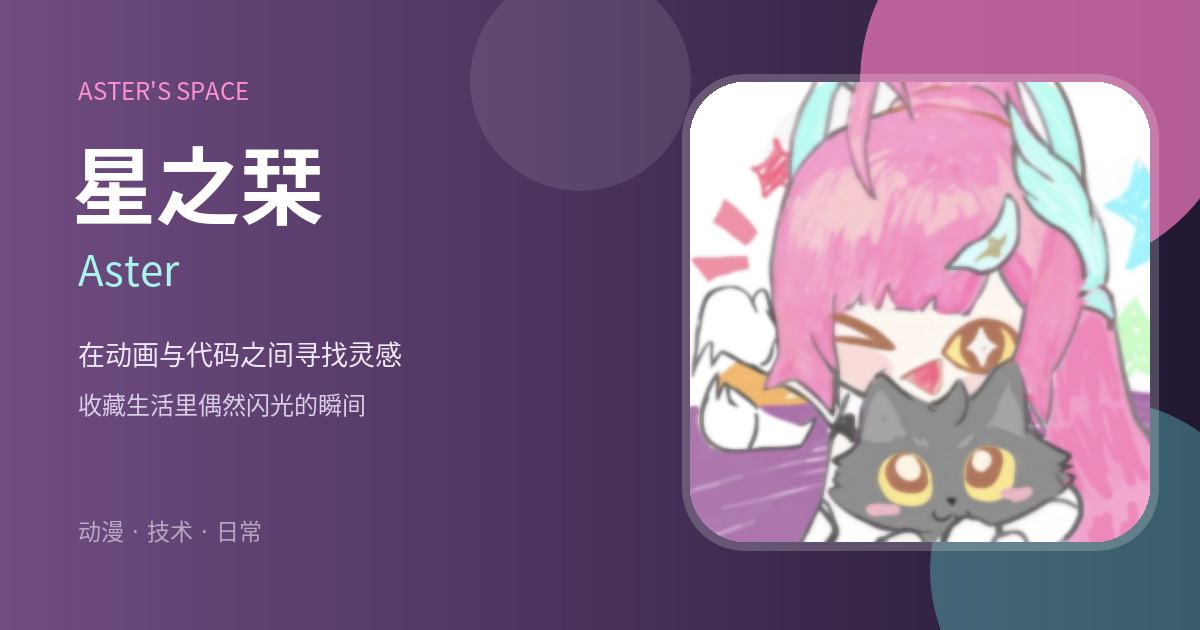
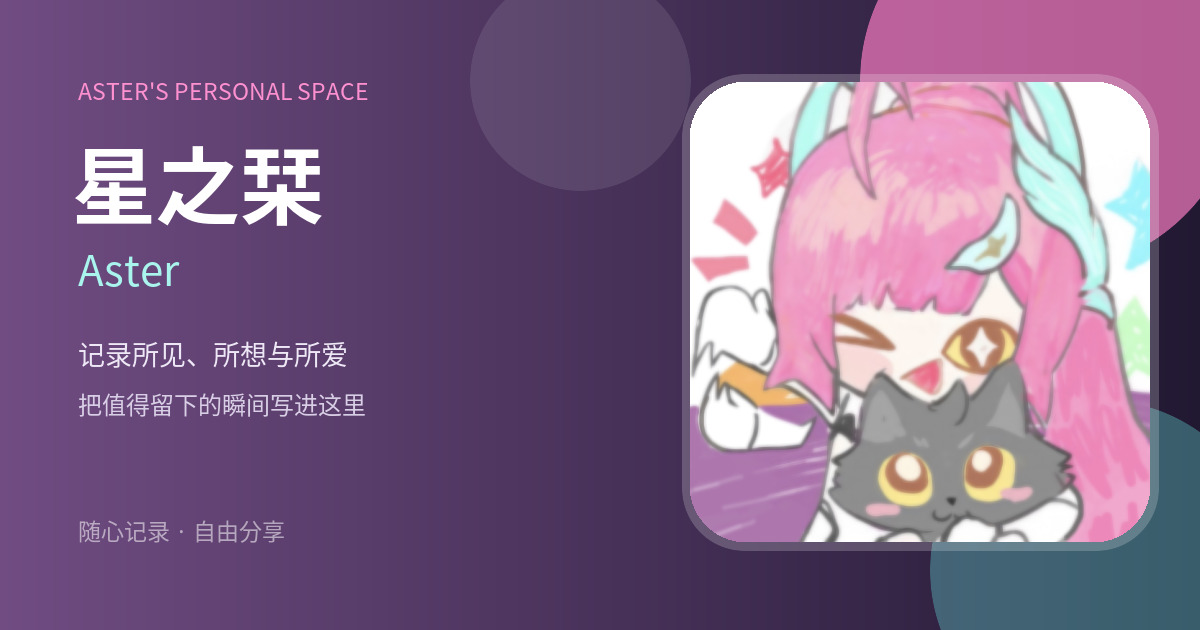
content: broaden site positioning and copy

Changed region(s): [[0.0617, 0.5429, 0.3392, 0.6635], [0.0617, 0.1206, 0.3083, 0.181], [0.0617, 0.8143, 0.2467, 0.8746]]

diff --git a/src/config/siteConfig.ts b/src/config/siteConfig.ts
@@ -9,17 +9,17 @@ export const siteConfig: SiteConfig = {
 	title: "星之栞",
 
 	// 站点副标题
-	subtitle: "动漫、技术与日常",
+	subtitle: "随心记录，自由分享",
 
 	// 站点 URL
 	site_url: "https://cheney0819.github.io/hoshi-no-shiori",
 
 	// 站点描述
 	description:
-		"星之栞是一个记录动画感想、技术探索与生活碎片的年轻化二次元个人博客。",
+		"星之栞是 Aster 的个人空间，用来记录想法、兴趣、经历，以及任何值得留下的瞬间。",
 
 	// 站点关键词
-	keywords: ["星之栞", "动漫", "二次元", "Astro", "个人博客", "技术", "生活"],
+	keywords: ["星之栞", "Aster", "个人博客", "随笔", "记录", "分享", "兴趣", "生活"],
 
 	// 主题色
 	themeColor: {

diff --git a/src/config/backgroundWallpaper.ts b/src/config/backgroundWallpaper.ts
@@ -67,9 +67,9 @@ export const backgroundWallpaper: BackgroundWallpaperConfig = {
 			titleSize: "5rem",
 			// 主页横幅副标题
 			subtitle: [
-				"在动画、代码与日常之间，收藏每一个闪光的瞬间。",
-				"愿每一次记录，都成为未来回望时闪亮的星光。",
-				"今日もいい日になりますように。",
+				"记录所见、所想与所爱。",
+				"想到什么，就在这里写下什么。",
+				"愿每一次记录，都成为未来回望时的星光。",
 			],
 			// 主页横幅副标题字体大小
 			subtitleSize: "1.5rem",

diff --git a/src/config/profileConfig.ts b/src/config/profileConfig.ts
@@ -12,7 +12,7 @@ export const profileConfig: ProfileConfig = {
 	name: "Aster",
 
 	// 个人签名
-	bio: "在动画与代码之间寻找灵感，喜欢可爱的事物，也记录生活里偶然闪光的瞬间。",
+	bio: "随心记录感兴趣的一切，也收藏生活里偶然闪光的瞬间。",
 
 	// 链接配置
 	// 已经预装的图标集：fa7-brands，fa7-regular，fa7-solid，material-symbols，simple-icons

diff --git a/src/config/announcementConfig.ts b/src/config/announcementConfig.ts
@@ -5,7 +5,7 @@ export const announcementConfig: AnnouncementConfig = {
 	title: "小站公告",
 
 	// 公告内容
-	content: "欢迎来到星之栞。这里会记录动画、技术和普通但值得收藏的日子。",
+	content: "欢迎来到星之栞。这里没有固定主题，只记录此刻想写下和分享的内容。",
 
 	// 是否允许用户关闭公告
 	closable: false,

diff --git a/scripts/new-post.js b/scripts/new-post.js
@@ -82,7 +82,7 @@ published: ${getDate()}
 description: ""
 image: ""
 tags: []
-category: 生活记录
+category: 随笔
 draft: true
 lang: zh_CN
 slug: ${slug}

diff --git a/src/content/spec/about.md b/src/content/spec/about.md
@@ -2,25 +2,25 @@
 
 你好，我是 **Aster**。
 
-在动画与代码之间寻找灵感，喜欢可爱的事物，也记录生活里偶然闪光的瞬间。
+随心记录感兴趣的一切，也收藏生活里偶然闪光的瞬间。
 
-这里会分享动画带来的感受、开发过程中的发现，以及那些不想被时间轻易带走的普通日常。
+这里不会限定主题。可能是一段突然出现的想法、一件最近喜欢的事、一次尝试、一张照片，也可能只是某天想留下的几句话。
 
 ## 关于星之栞
 
-“栞”是书签。这个博客希望成为时间里的书签，把技术探索、动画感想和生活碎片留在自己的空间中。
+“栞”是书签。这个博客希望成为时间里的书签，把想法、兴趣、经历和每一个值得记住的瞬间留在自己的空间中。
 
 本站采用 [Firefly](https://github.com/CuteLeaf/Firefly) 作为正式主题底座。Firefly 基于 [Fuwari](https://github.com/saicaca/fuwari) 开发，我们保留成熟的博客架构，只定制品牌、配色、内容与必要功能。
 
-## 主要内容
+## 关于这里
 
-- 动画观后感与追番记录
-- 前端和开发笔记
-- 游戏、摄影与生活随笔
+星之栞没有固定的内容范围。只要是我想记录、整理或分享的东西，都可能出现在这里。
+
+内容可以很完整，也可以只是一个片段；可以认真讨论一个问题，也可以简单保存当下的心情。分类和标签只用于整理，不会限制以后想写的内容。
 
 ## 联系我
 
-如果你想交流动画、技术或其他有趣的事情，可以通过邮箱联系我：
+如果你想交流、分享想法，或者只是打个招呼，可以通过邮箱联系我：
 
 - [ydssxf0819@outlook.com](mailto:ydssxf0819@outlook.com)
 

diff --git a/src/content/posts/welcome.md b/src/content/posts/welcome.md
@@ -2,9 +2,9 @@
 title: 欢迎来到星之栞
 published: 2026-08-02
 pinned: true
-description: Aster 为什么建立这个个人空间，以及星之栞会记录什么。
+description: Aster 为什么建立这个个人空间，以及星之栞会如何自由生长。
 tags: [博客, Aster, 记录]
-category: 生活记录
+category: 随笔
 image: ../../assets/images/avatar-custom.webp
 slug: welcome
 author: Aster
@@ -19,13 +19,13 @@ comment: false
 
 这个名字还有另一层含义——希望每一篇文字都像夜空中的一颗星。它们未必耀眼，却可以在漫长的时间里留下自己的坐标。
 
-## 这里会写什么
+## 这里会出现什么
 
-主要会有三类内容：
+这里不会限定固定主题。只要是我此刻感兴趣、想整理或希望留下的内容，都可能成为一篇新的记录。
 
-- **动画随笔**：观后感、角色与场景带来的情绪；
-- **技术笔记**：开发过程中值得整理和反复查阅的内容；
-- **生活记录**：摄影、游戏、偶然灵感和普通日常。
+它可能是一段想法、一篇长文、一张照片、一首喜欢的歌、一次项目经历，也可能只是某个普通日子的心情。
+
+分类和标签只是为了方便整理，而不是给内容划定边界。
 
 > 不追求每天更新，只希望每一次发布都值得被留下。
 

diff --git a/docs/CONTENT_GUIDE.md b/docs/CONTENT_GUIDE.md
@@ -2,15 +2,16 @@
 
 本规范用于保持文章分类、标签、文件名和 Frontmatter 一致。
 
-## 正式分类
+## 分类原则
 
-每篇文章只选择一个主分类：
+分类只用于整理内容，不限制可以发布的主题。
 
-- `动画随笔`：动画、电影、角色、场景与观后感
-- `技术笔记`：开发、工具、项目实践与问题记录
-- `生活记录`：摄影、游戏、灵感和普通日常
+- 新文章可以使用已有分类，也可以在确实需要时创建新分类
+- 分类名称应简短，能够概括一组内容即可
+- 不必为了维持固定结构，把文章勉强放入不合适的分类
+- 只有一篇内容的临时主题，可以先使用较宽泛的分类，例如 `随笔`
 
-如果以后确实出现大量新主题，再增加分类；不要为单篇文章创建新分类。
+随着内容增加，再逐步整理出自然形成的分类。
 
 ## 标签规范
 

diff --git a/README.md b/README.md
@@ -1,6 +1,6 @@
 # 星之栞 · Hoshi no Shiori
 
-一个记录动画感想、技术探索与生活碎片的年轻化二次元个人空间。
+Aster 的开放式个人空间，用来随心记录想法、兴趣、经历和任何值得留下的瞬间。
 
 本项目使用 [Firefly](https://github.com/CuteLeaf/Firefly) 作为正式主题底座，Firefly 基于 [Fuwari](https://github.com/saicaca/fuwari) 开发。通用博客能力跟随上游维护，本仓库只维护品牌、内容、配置和必要删减。
 
@@ -10,7 +10,7 @@
 - 作者：Aster
 - 语言：简体中文
 - 风格：暮光紫、动漫动态横幅、双侧栏卡片布局
-- 内容：动画随笔、技术笔记、生活记录
+- 内容：不限定主题，分类与标签仅用于整理
 - 搜索：Pagefind
 - 评论：暂未启用
 - 背景：桌面端双 MP4 轮播，手机端双高清动画 WebP 轮播

diff --git a/docs/POST_TEMPLATE.md b/docs/POST_TEMPLATE.md
@@ -4,7 +4,7 @@ published: 2026-08-03
 description: 用一到两句话概括文章内容。
 image: ./images/cover.avif
 tags: [标签一, 标签二]
-category: 生活记录
+category: 随笔
 draft: true
 lang: zh_CN
 slug: article-slug
